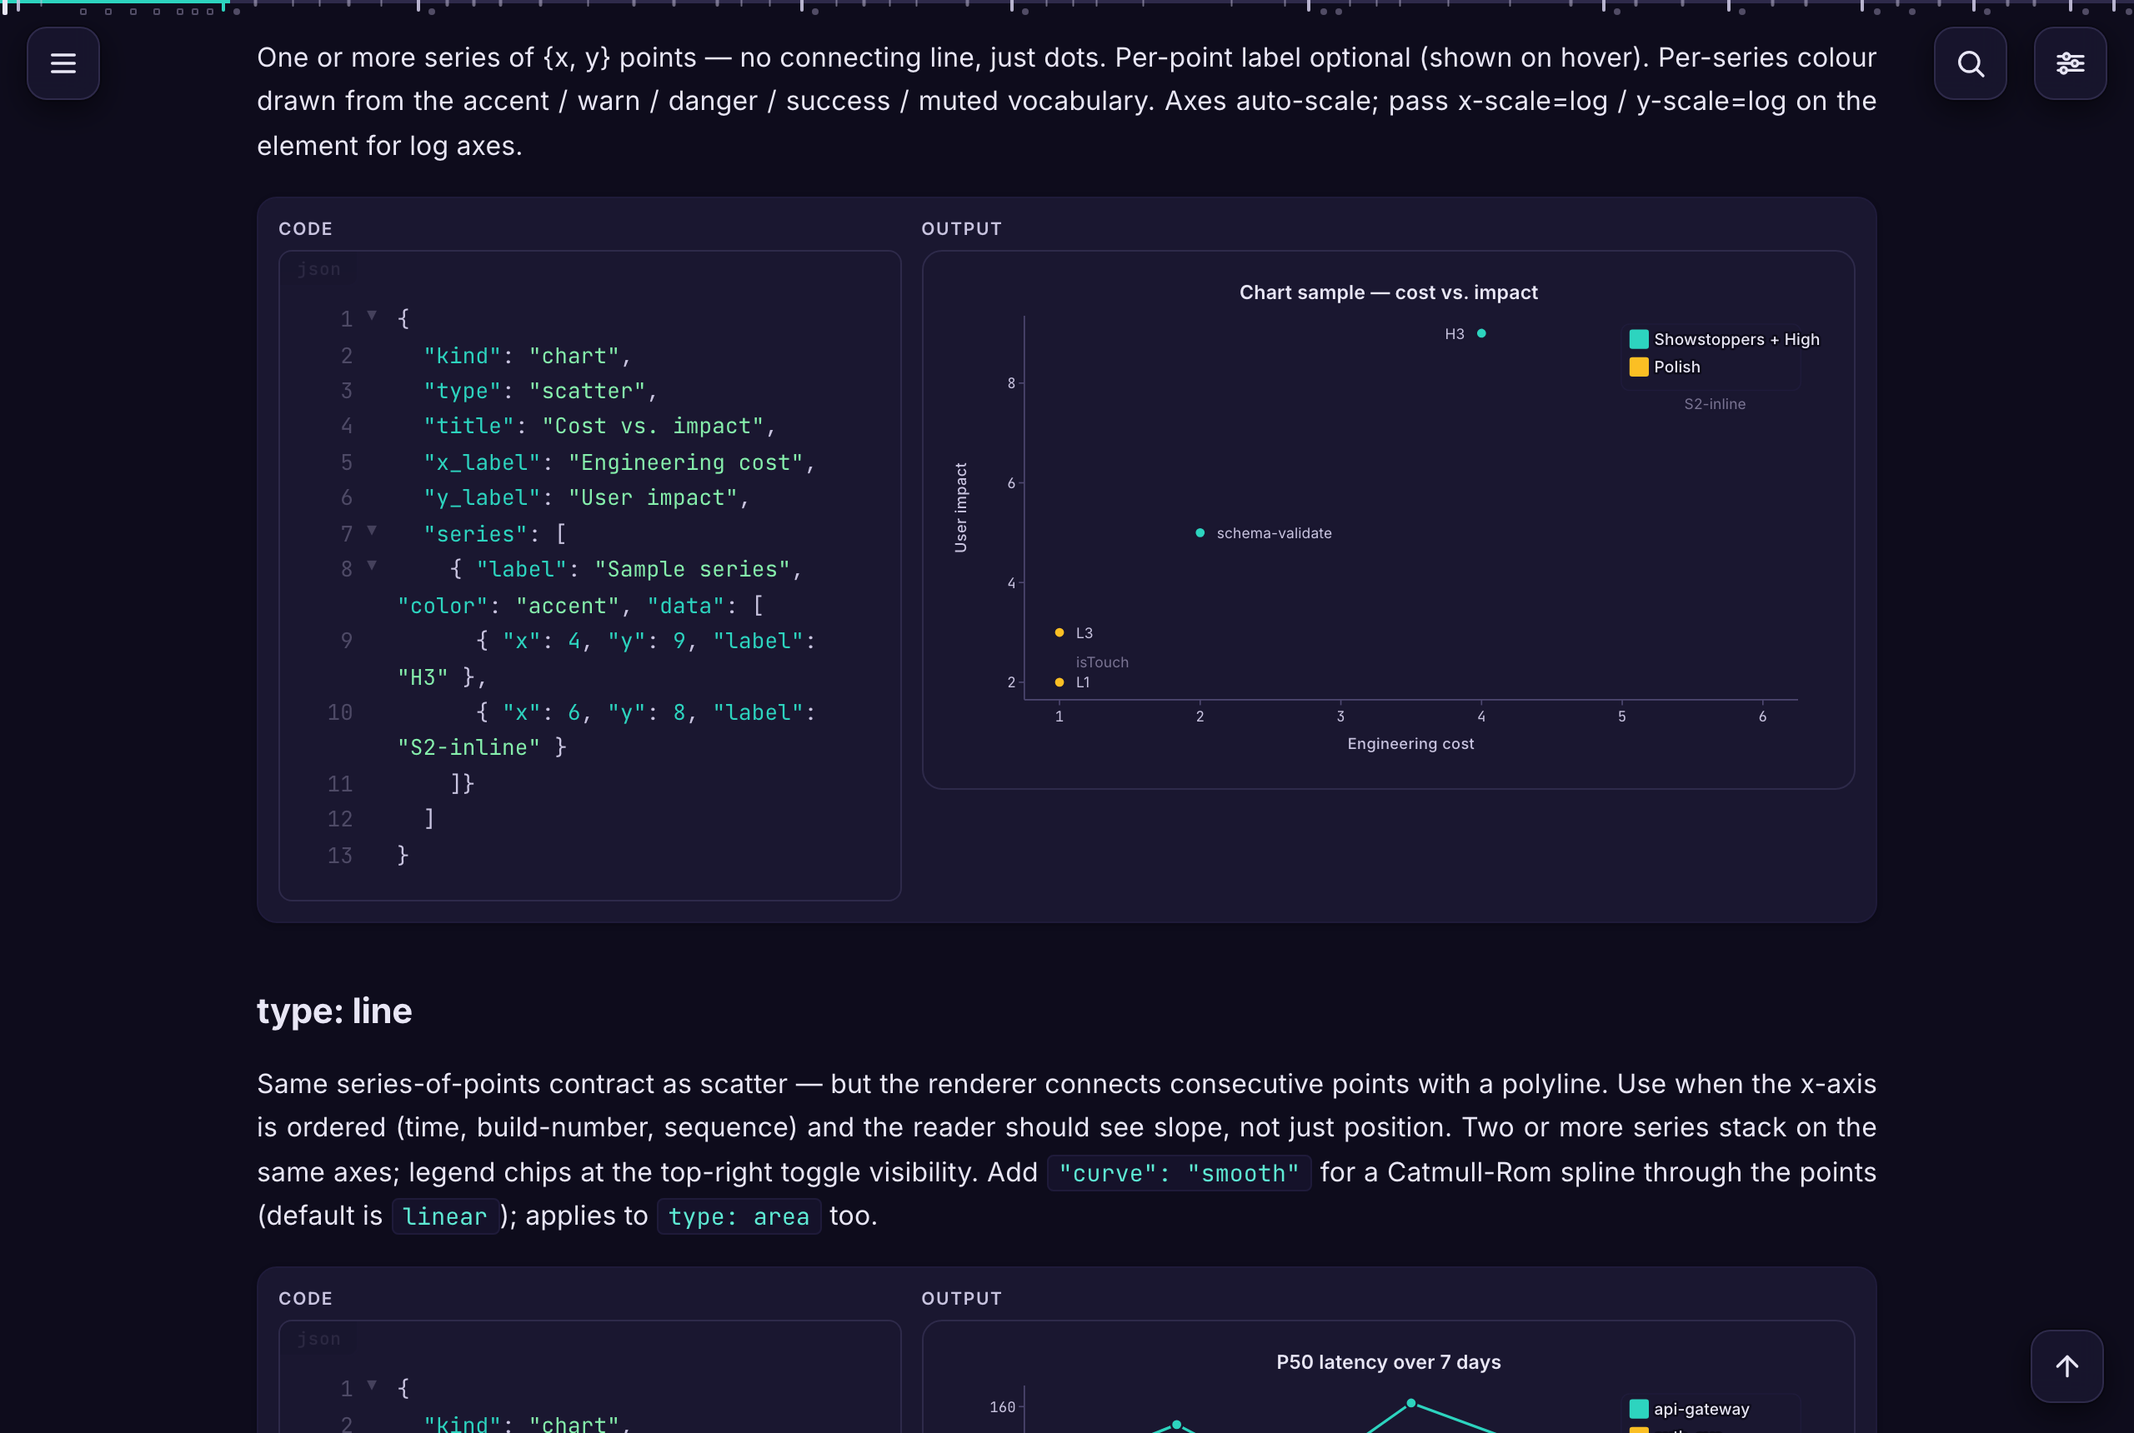
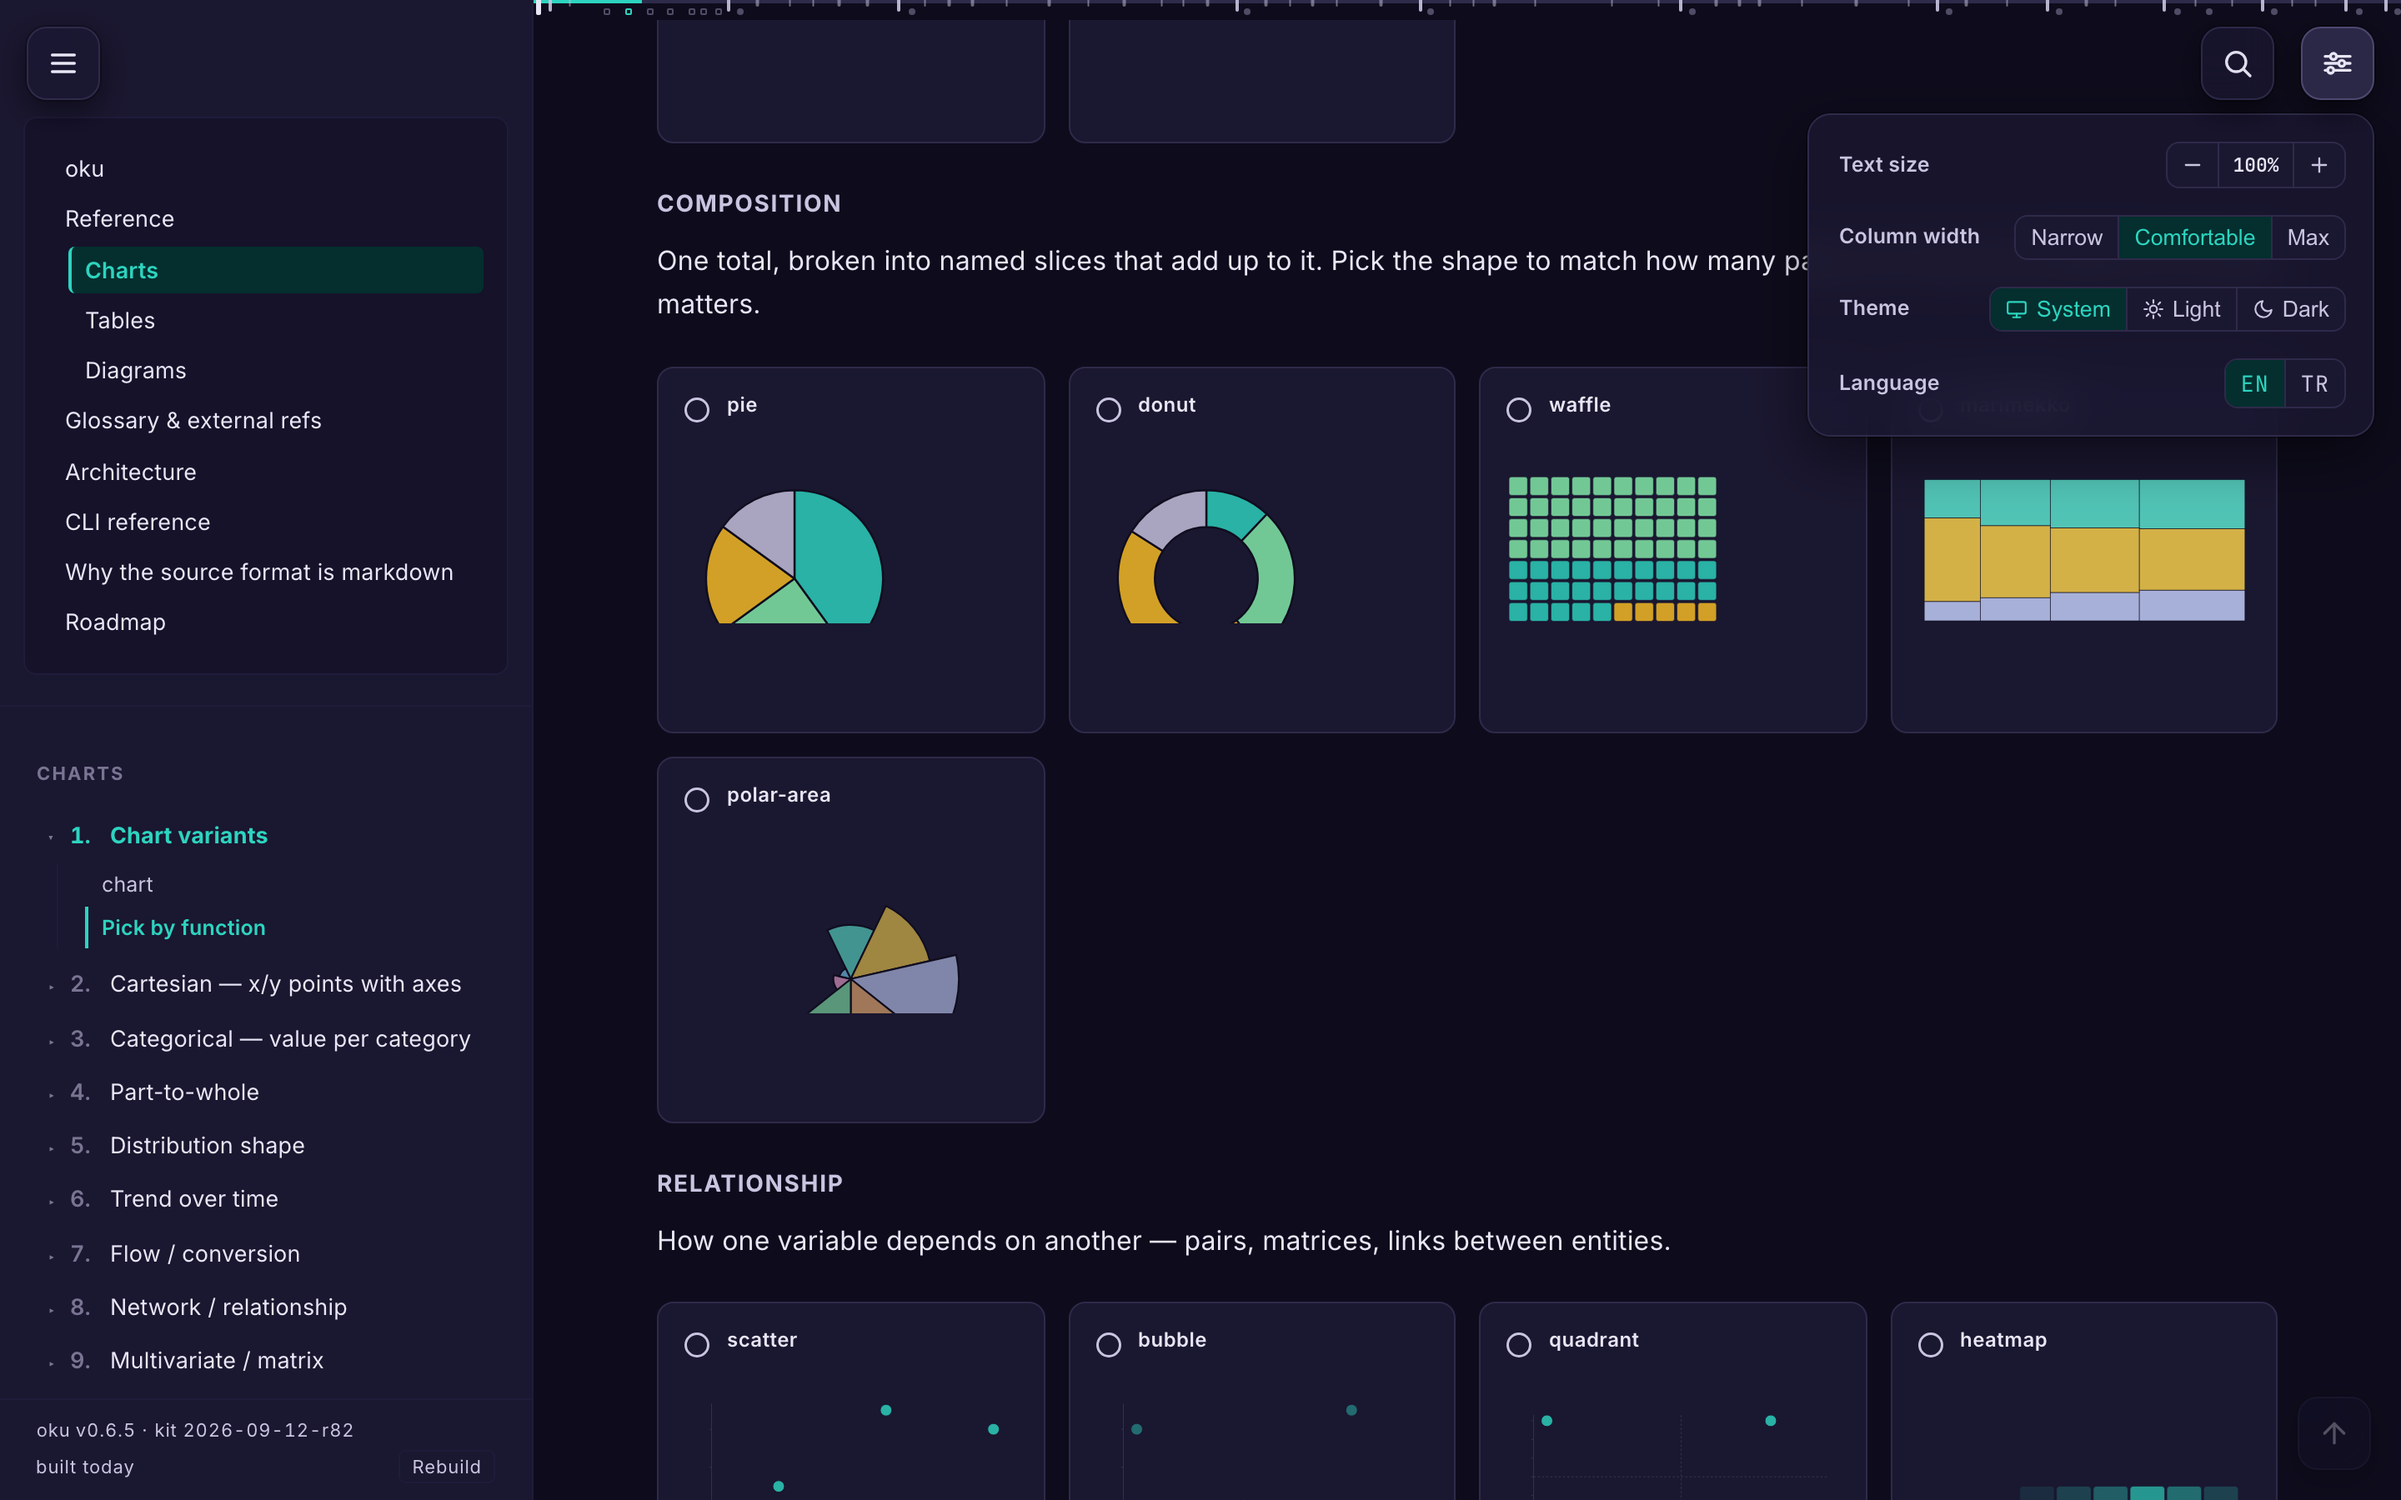
README hero: drawer pinned, display menu open, the Composition picker in view
Captured at 1440x900 @2x in both colour schemes after clicking the
Contents button (page-nav 320px wide at x=0, main left 330) and the
display menu (.menu-toggle aria-expanded=true, panel 340x194 at
1084,68), scrolled so the Composition group heading sits at y=110.

diff --git a/README.md b/README.md
@@ -10,7 +10,7 @@ with search, and a single-file copy of every page that opens from
 
 <picture>
   <source media="(prefers-color-scheme: dark)" srcset=".github/assets/readme-dark.png">
-  <img alt="A reference page rendered by oku: the JSON payload of a scatter chart on the left, the rendered chart on the right, the reading rail and controls around them" src=".github/assets/readme-light.png" width="100%">
+  <img alt="The charts reference rendered by oku: the Contents drawer pinned on the left with the site tree and on-page TOC, a grid of pie, donut, waffle, treemap and polar-area previews in the reading column, and the display menu open at the top right with text size, column width, theme and language" src=".github/assets/readme-light.png" width="100%">
 </picture>
 
 ## Why
